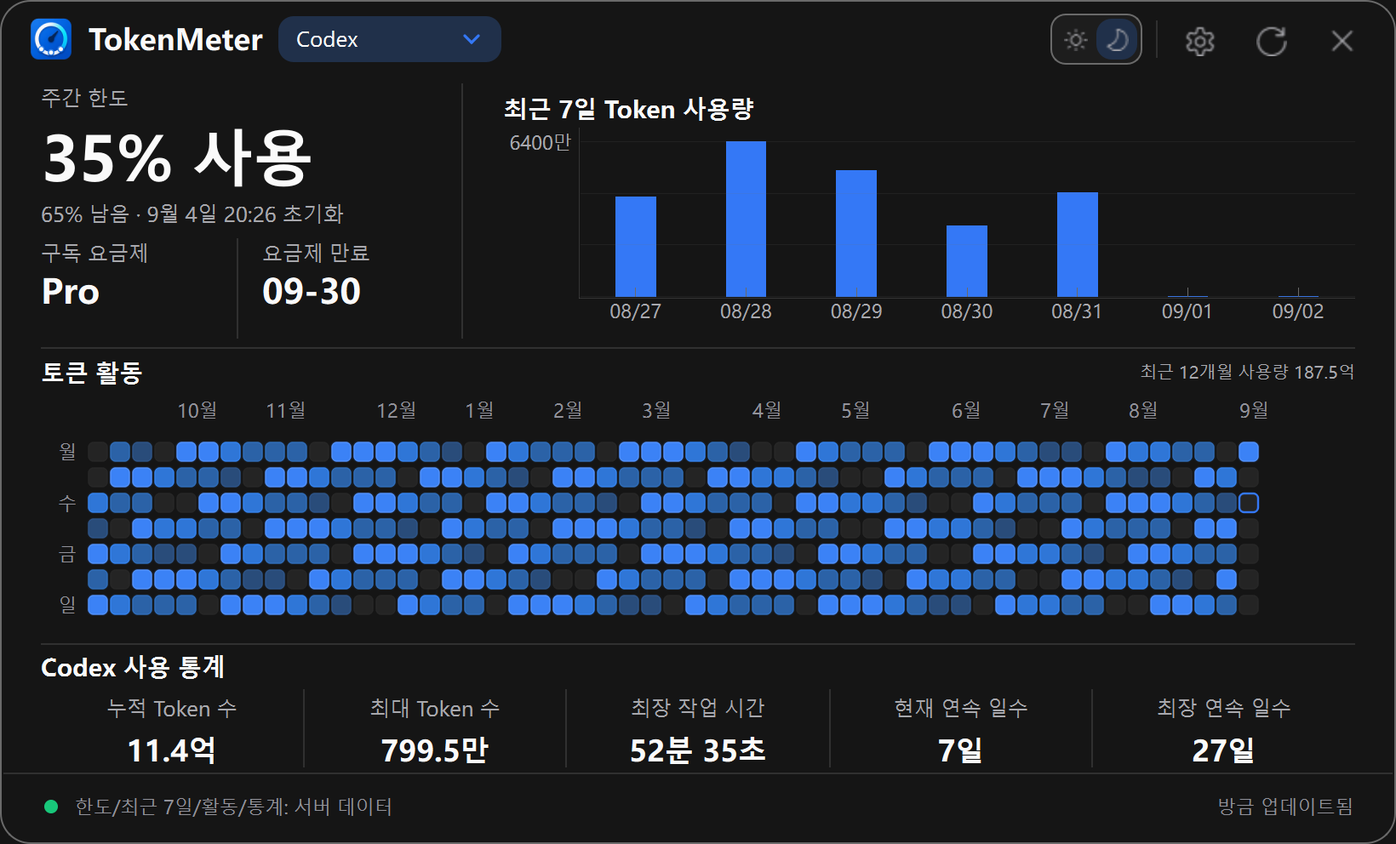
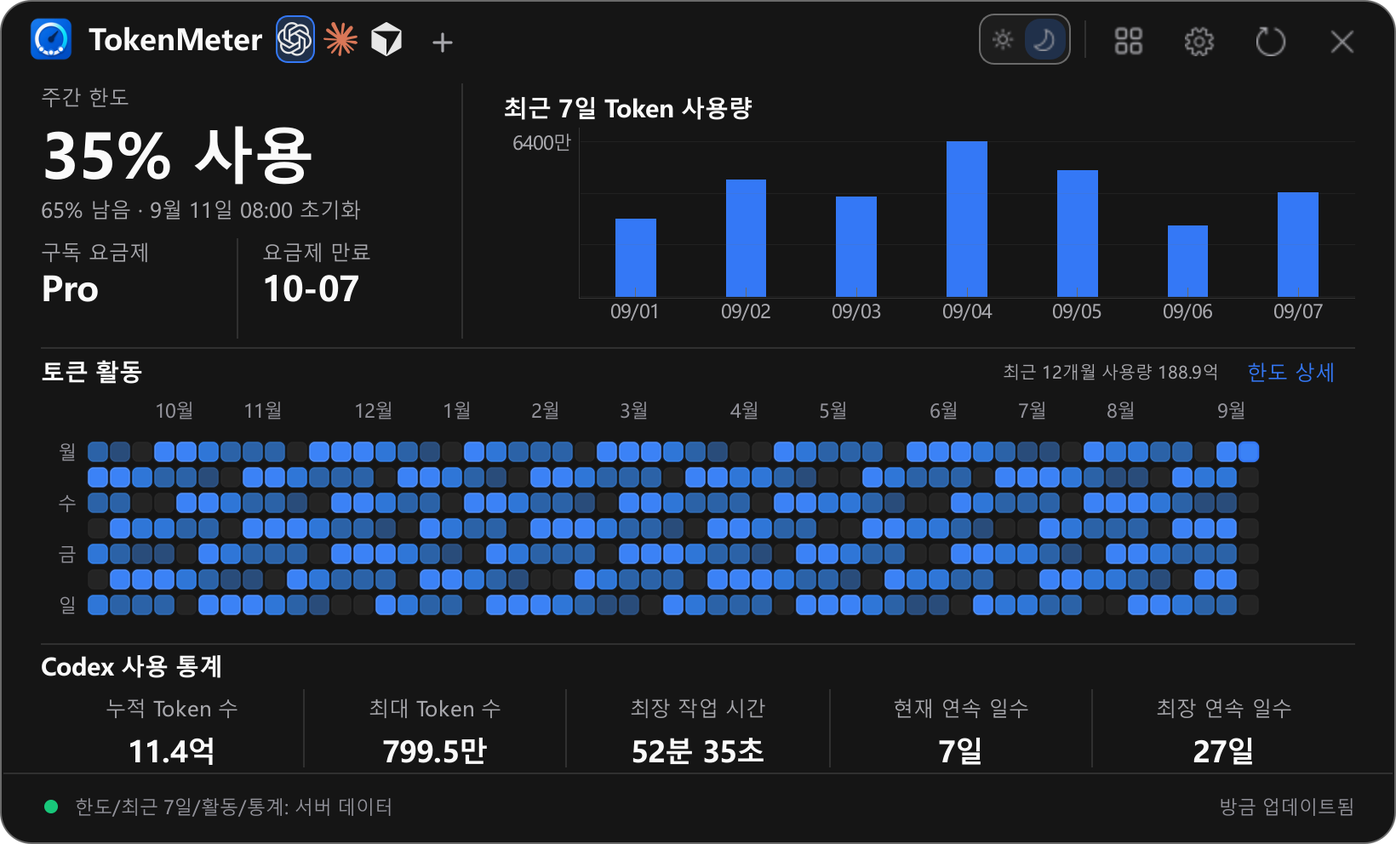
feat: 发布 v1.15.0 多平台监控与桌宠 v0.1.4，更新官网和文档

diff --git a/site/index.html b/site/index.html
@@ -7,7 +7,7 @@
     <meta name="color-scheme" content="light dark">
     <meta name="robots" content="index,follow,max-image-preview:large">
     <title>TokenMeter — AI Usage Monitor for Windows</title>
-    <meta name="description" content="TokenMeter 是适用于 Windows 10/11 的 AI 用量监控工具，可统一查看订阅额度、Token 消耗、费用、余额与历史趋势。">
+    <meta name="description" content="TokenMeter 为 Windows 提供 15 个 AI 平台入口、多账户额度总览、Codex / Claude 本机统计、Excel 导出与额度提醒。各平台数据范围不同。">
     <link rel="canonical" href="https://zensoku142.github.io/TokenMeter/">
     <link rel="icon" type="image/png" href="./assets/app-icon.png">
     <link rel="apple-touch-icon" href="./assets/app-icon.png">
@@ -25,18 +25,18 @@
     <meta property="og:locale" content="zh_CN">
     <meta property="og:site_name" content="TokenMeter">
     <meta property="og:title" content="TokenMeter — AI Usage Monitor for Windows">
-    <meta property="og:description" content="在 Windows 桌面统一查看 AI 订阅额度、Token 消耗、费用与余额。">
+    <meta property="og:description" content="TokenMeter 为 Windows 提供 15 个 AI 平台入口、多账户额度总览、Codex / Claude 本机统计、Excel 导出与额度提醒。各平台数据范围不同。">
     <meta property="og:url" content="https://zensoku142.github.io/TokenMeter/">
     <meta property="og:image" content="https://zensoku142.github.io/TokenMeter/assets/social-preview.webp">
     <meta property="og:image:width" content="1920"><meta property="og:image:height" content="1624">
     <meta property="og:image:alt" content="TokenMeter 的额度面板、用量分析、悬浮球与可选桌宠">
     <meta name="twitter:card" content="summary_large_image">
     <meta name="twitter:title" content="TokenMeter — AI Usage Monitor for Windows">
-    <meta name="twitter:description" content="查看 Codex、Cursor 额度及多个 AI API 的 Token、费用和余额。">
+    <meta name="twitter:description" content="TokenMeter 为 Windows 提供 15 个 AI 平台入口、多账户额度总览、Codex / Claude 本机统计、Excel 导出与额度提醒。各平台数据范围不同。">
     <meta name="twitter:image" content="https://zensoku142.github.io/TokenMeter/assets/social-preview.webp">
     <link rel="stylesheet" href="./styles.css">
     <script src="./script.js" defer></script>
-    <script type="application/ld+json">{"@context":"https://schema.org","@type":"SoftwareApplication","@id":"https://zensoku142.github.io/TokenMeter/#software","name":"TokenMeter","url":"https://zensoku142.github.io/TokenMeter/","description":"适用于 Windows 10/11 的 AI Token 用量、费用、余额与订阅额度监控工具。","applicationCategory":"UtilitiesApplication","operatingSystem":["Windows 10","Windows 11"],"softwareVersion":"1.14.2","downloadUrl":"https://github.com/zensoku142/TokenMeter/releases/latest","sameAs":"https://github.com/zensoku142/TokenMeter","license":"https://github.com/zensoku142/TokenMeter/blob/master/LICENSE","isAccessibleForFree":true,"image":"https://zensoku142.github.io/TokenMeter/assets/social-preview.webp","screenshot":["https://zensoku142.github.io/TokenMeter/assets/panel-light.png","https://zensoku142.github.io/TokenMeter/assets/panel-deepseek.png"],"inLanguage":["zh-CN","zh-TW","en","ja","ko"]}</script>
+    <script type="application/ld+json">{"@context":"https://schema.org","@type":"SoftwareApplication","@id":"https://zensoku142.github.io/TokenMeter/#software","name":"TokenMeter","url":"https://zensoku142.github.io/TokenMeter/","description":"适用于 Windows 10/11 的 AI Token 用量、费用、余额与订阅额度监控工具。","applicationCategory":"UtilitiesApplication","operatingSystem":["Windows 10","Windows 11"],"softwareVersion":"1.15.0","downloadUrl":"https://github.com/zensoku142/TokenMeter/releases/latest","sameAs":"https://github.com/zensoku142/TokenMeter","license":"https://github.com/zensoku142/TokenMeter/blob/master/LICENSE","isAccessibleForFree":true,"image":"https://zensoku142.github.io/TokenMeter/assets/social-preview.webp","screenshot":["https://zensoku142.github.io/TokenMeter/assets/panel-light.png","https://zensoku142.github.io/TokenMeter/assets/panel-deepseek.png"],"inLanguage":["zh-CN","zh-TW","en","ja","ko"]}</script>
   </head>
   <body>
     <a class="skip-link" href="#main-content" data-i18n="skip_link">跳到主要内容</a>
@@ -67,7 +67,7 @@
               <li><svg viewBox="0 0 24 24" aria-hidden="true"><path d="m5 12 4 4L19 6"/></svg><span data-i18n="open_label">自有代码 MIT</span></li>
               <li><svg viewBox="0 0 24 24" aria-hidden="true"><path d="m5 12 4 4L19 6"/></svg><span data-i18n="benefit_5_title">数据留在本机</span></li>
             </ul>
-            <div class="provider-row hero-enter" style="--enter-order:5"><span class="provider-label" data-i18n="providers_intro">支持平台</span><ul class="hero-providers" aria-label="支持的平台" data-i18n-aria="providers_aria"><li><span class="provider-mark" aria-hidden="true">C</span>Codex</li><li><span class="provider-mark" aria-hidden="true">C</span>Cursor</li><li><span class="provider-mark" aria-hidden="true">D</span>DeepSeek</li><li><span class="provider-mark" aria-hidden="true">M</span>MiMo</li><li><span class="provider-mark" aria-hidden="true">N</span>NayutoAI</li></ul></div>
+            <div class="provider-row hero-enter" style="--enter-order:5"><span class="provider-label" data-i18n="providers_intro">15 个平台入口 · 按各平台能力展示</span><ul class="hero-providers" aria-label="支持的平台" data-i18n-aria="providers_aria"><li><span class="provider-mark" aria-hidden="true">C</span>Codex</li><li><span class="provider-mark" aria-hidden="true">C</span>Cursor</li><li><span class="provider-mark" aria-hidden="true">D</span>DeepSeek</li><li><span class="provider-mark" aria-hidden="true">M</span>MiMo</li><li><span class="provider-mark" aria-hidden="true">N</span>NayutoAI</li></ul></div>
           </div>
           <div class="hero-visual hero-enter" style="--enter-order:5" aria-label="TokenMeter 产品界面组合展示">
             <div class="visual-glow" aria-hidden="true"></div>
@@ -90,11 +90,11 @@
             </div>
             <div class="product-panels">
               <article class="product-panel is-active" role="tabpanel" id="panel-quota" aria-labelledby="tab-quota" data-demo-panel="quota">
-                <div class="product-panel-copy"><p class="section-label">Codex / Cursor</p><h3 data-i18n="benefit_1_title">订阅额度一眼可见</h3><p data-i18n="benefit_1_desc">查看已用和剩余额度、重置时间，以及近期 Token 与活动趋势。</p><ul class="feature-points"><li><span></span><span data-i18n="benefit_1_desc">已用、剩余比例与重置时间</span></li><li><span></span><span data-i18n="benefit_4_desc">近七天 Token 与历史统计</span></li><li><span></span><span data-i18n="analytics_point_3">离线时恢复最后成功数据</span></li></ul><div class="inline-metrics" aria-label="演示数据" data-i18n-aria="demo_metrics_aria"><span><small data-i18n="demo_quota_label">剩余额度</small><strong><span data-counter="65">0</span>%</strong></span><span><small data-i18n="fact_version">主程序版本</small><strong>v1.14.2</strong></span></div></div>
+                <div class="product-panel-copy"><p class="section-label">Codex / Claude / Cursor / Copilot</p><h3 data-i18n="benefit_1_title">订阅额度一眼可见</h3><p data-i18n="benefit_1_desc">查看 Codex、Claude、Cursor、Copilot 等平台的额度窗口与重置时间。</p><ul class="feature-points"><li><span></span><span data-i18n="benefit_1_desc">查看 Codex、Claude、Cursor、Copilot 等平台的额度窗口与重置时间。</span></li><li><span></span><span data-i18n="benefit_4_desc">额度消耗预测、低额度与恢复提醒，支持通知静默时段。</span></li><li><span></span><span data-i18n="analytics_point_3">离线时恢复最后成功数据</span></li></ul><div class="inline-metrics" aria-label="演示数据" data-i18n-aria="demo_metrics_aria"><span><small data-i18n="demo_quota_label">剩余额度</small><strong><span data-counter="65">0</span>%</strong></span><span><small data-i18n="fact_version">主程序版本</small><strong>v1.15.0</strong></span></div></div>
                 <figure class="product-panel-visual surface-light"><a href="./assets/panel-light.png" aria-label="查看 Codex 额度面板原图" data-i18n-aria="quota_image_link_aria"><img src="./assets/panel-light.png" alt="TokenMeter 浅色主题下的 Codex 额度、近七天 Token 和年度活动面板" data-i18n-alt="quota_image_alt" data-i18n-src="panel_light_src" width="1640" height="992" loading="lazy" decoding="async"></a><div class="visual-caption"><span>Codex</span><span data-i18n="screenshot_caption">真实界面 · 演示数据</span></div></figure>
               </article>
               <article class="product-panel" role="tabpanel" id="panel-analytics" aria-labelledby="tab-analytics" data-demo-panel="analytics" hidden>
-                <div class="product-panel-copy"><p class="section-label">DeepSeek / MiMo / NayutoAI</p><h3 data-i18n="analytics_title">看见每个时段的消耗。</h3><p data-i18n="analytics_desc">查看 Token 输入与输出、今日分时趋势、使用费用、账户余额和历史变化。</p><ul class="feature-points"><li><span></span><span data-i18n="analytics_point_1">Token 构成与分时变化</span></li><li><span></span><span data-i18n="analytics_point_2">费用、余额与历史统计</span></li><li><span></span><span data-i18n="analytics_point_3">断网时恢复最后成功数据</span></li></ul><div class="inline-metrics" aria-label="演示数据" data-i18n-aria="demo_metrics_aria"><span><small data-i18n="demo_cost_label">今日费用</small><strong>¥<span data-counter="18.42" data-decimals="2">0</span></strong></span><span><small data-i18n="demo_balance_label">账户余额</small><strong>¥<span data-counter="286.70" data-decimals="2">0</span></strong></span></div></div>
+                <div class="product-panel-copy"><p class="section-label">API · Codex / Claude</p><h3 data-i18n="analytics_title">看见每个时段的消耗。</h3><p data-i18n="analytics_desc">查看 API 费用与余额，分析 Codex / Claude 本机日志，按日期、项目和模型筛选并导出 Excel。本机统计不代表订阅额度或实际账单。</p><ul class="feature-points"><li><span></span><span data-i18n="analytics_point_1">交互图表、每日模型对比与项目筛选</span></li><li><span></span><span data-i18n="analytics_point_2">后台导出 Excel 汇总、明细与口径说明</span></li><li><span></span><span data-i18n="analytics_point_3">断网时恢复最后成功数据</span></li></ul><div class="inline-metrics" aria-label="演示数据" data-i18n-aria="demo_metrics_aria"><span><small data-i18n="demo_cost_label">今日费用</small><strong>¥<span data-counter="18.42" data-decimals="2">0</span></strong></span><span><small data-i18n="demo_balance_label">账户余额</small><strong>¥<span data-counter="286.70" data-decimals="2">0</span></strong></span></div></div>
                 <figure class="product-panel-visual surface-dark"><a href="./assets/panel-deepseek.png" aria-label="查看 DeepSeek 用量面板原图" data-i18n-aria="analytics_image_link_aria"><img src="./assets/panel-deepseek.png" alt="TokenMeter 的 DeepSeek Token、费用、余额与今日分时面板" data-i18n-alt="analytics_image_alt" data-i18n-src="panel_deepseek_src" width="1640" height="1100" loading="lazy" decoding="async"></a><div class="visual-caption"><span>DeepSeek</span><span data-i18n="screenshot_caption">真实界面 · 演示数据</span></div></figure>
               </article>
               <article class="product-panel" role="tabpanel" id="panel-floating" aria-labelledby="tab-floating" data-demo-panel="floating" hidden>
@@ -114,9 +114,9 @@
         <div class="container">
           <div class="section-heading centered-heading"><p class="section-label" data-i18n="features_label">为什么使用 TokenMeter</p><h2 id="advantages-title" data-i18n="features_title">少开几个后台，多留一点专注。</h2><p data-i18n="features_intro">不用在多个 AI 平台之间反复切换。需要的数据以一致的方式留在桌面上。</p></div>
           <div class="advantage-grid">
-            <article class="advantage-card advantage-primary" data-reveal><div class="advantage-copy"><span class="number-label">01</span><h3 data-i18n="advantage_multi_title">多平台统一监控</h3><p data-i18n="advantage_multi_desc">一个应用查看多个 AI 平台，额度与用量采用一致的阅读方式。</p><ul class="compact-tags"><li>Codex</li><li>Cursor</li><li>DeepSeek</li><li>MiMo</li><li>NayutoAI</li></ul></div><figure class="advantage-image"><img src="./assets/panel-deepseek.png" alt="TokenMeter 多平台用量面板" data-i18n-alt="analytics_image_alt" data-i18n-src="panel_deepseek_src" width="1640" height="1100" loading="lazy" decoding="async"></figure></article>
+            <article class="advantage-card advantage-primary" data-reveal><div class="advantage-copy"><span class="number-label">01</span><h3 data-i18n="advantage_multi_title">多平台统一监控</h3><p data-i18n="advantage_multi_desc">15 个平台入口，多平台总览与独立账户档案；已配置平台可组成置顶双平台看板。</p><ul class="compact-tags"><li>Codex</li><li>Claude Code</li><li>Cursor</li><li>GitHub Copilot</li><li>Gemini CLI</li><li>Antigravity CLI</li><li>GLM / Z.ai</li><li>Kimi Coding</li><li>MiniMax Token Plan</li><li>ElevenLabs</li><li>DeepSeek</li><li>MiMo</li><li>NayutoAI</li><li>OpenRouter</li><li>Moonshot / Kimi API</li></ul></div><figure class="advantage-image"><img src="./assets/panel-deepseek.png" alt="TokenMeter 多平台用量面板" data-i18n-alt="analytics_image_alt" data-i18n-src="panel_deepseek_src" width="1640" height="1100" loading="lazy" decoding="async"></figure></article>
             <article class="advantage-card security-card" id="privacy" data-reveal><div class="security-visual" aria-hidden="true"><svg viewBox="0 0 72 72"><path d="M36 7 60 17v18c0 15-10 25-24 31C22 60 12 50 12 35V17L36 7Z"/><path d="m25 36 7 7 15-16"/></svg><div><span data-i18n="privacy_2_title">Windows 凭据管理器</span><strong>API Key · Token · Cookie</strong></div></div><div class="advantage-copy"><span class="number-label">02</span><h3 data-i18n="advantage_security_title">凭据本地安全保存</h3><p data-i18n="advantage_security_desc">由 TokenMeter 管理的凭据存入 Windows 凭据管理器，不直接写入普通配置文件或应用日志。</p><span class="status-pill"><i></i><span data-i18n="privacy_1_title">历史数据本地保存</span></span></div></article>
-            <article class="advantage-card tray-card" data-reveal><div class="tray-visual"><img src="./assets/ball-light.png" alt="TokenMeter 悬浮球" width="248" height="248" loading="lazy" decoding="async"><div aria-hidden="true"><span></span><span></span><span class="tray-active"></span><span></span></div></div><div class="advantage-copy"><span class="number-label">03</span><h3 data-i18n="advantage_tray_title">悬浮球与系统托盘</h3><p data-i18n="advantage_tray_desc">不打开完整面板，也能快速查看额度或余额；贴边后尽量不打扰当前工作。</p></div></article>
+            <article class="advantage-card tray-card" data-reveal><div class="tray-visual"><img src="./assets/ball-light.png" alt="TokenMeter 悬浮球" width="248" height="248" loading="lazy" decoding="async"><div aria-hidden="true"><span></span><span></span><span class="tray-active"></span><span></span></div></div><div class="advantage-copy"><span class="number-label">03</span><h3 data-i18n="advantage_tray_title">悬浮球与系统托盘</h3><p data-i18n="advantage_tray_desc">悬浮球、系统托盘与双平台看板；自动刷新支持失败退避，低额度与恢复提醒可按需开启。</p></div></article>
           </div>
         </div>
       </section>
@@ -126,7 +126,7 @@
       </section>
 
       <section class="section download-section" id="download" aria-labelledby="download-title" data-reveal data-section="download">
-        <div class="container download-shell"><div class="download-copy"><img src="./assets/app-icon.png" alt="" width="68" height="68"><p class="section-label" data-i18n="install_label">开始使用</p><h2 id="download-title" data-i18n="download_title_compact">把 AI 用量放到桌面。</h2><p data-i18n="download_desc">下载 Windows x64 安装包，选择平台，然后点击悬浮球查看额度、Token、费用与余额。</p><div class="hero-actions"><a class="button button-primary button-light" href="https://github.com/zensoku142/TokenMeter/releases/latest"><svg viewBox="0 0 24 24" width="19" height="19" aria-hidden="true"><path d="M12 3v12m0 0 4-4m-4 4-4-4M5 20h14"/></svg><span data-i18n="action_download">下载 Windows 版</span></a><a class="button button-ghost" href="https://github.com/zensoku142/TokenMeter/releases"><span>GitHub Releases</span><svg viewBox="0 0 24 24" width="18" height="18" aria-hidden="true"><path d="M5 12h14m-5-5 5 5-5 5"/></svg></a></div></div><div class="download-meta" aria-label="下载信息"><div><span data-i18n="fact_version">当前版本</span><strong>v1.14.2</strong></div><div><span data-i18n="fact_windows">系统要求</span><strong>Windows 10 / 11 x64</strong></div><div><span data-i18n="lightweight_license">开源许可</span><strong>MIT License</strong></div><div><span data-i18n="fact_sha">安装包校验</span><strong>SHA256SUMS.txt</strong></div></div></div>
+        <div class="container download-shell"><div class="download-copy"><img src="./assets/app-icon.png" alt="" width="68" height="68"><p class="section-label" data-i18n="install_label">开始使用</p><h2 id="download-title" data-i18n="download_title_compact">把 AI 用量放到桌面。</h2><p data-i18n="download_desc">下载 Windows x64 安装包，选择平台，然后点击悬浮球查看额度、Token、费用与余额。</p><div class="hero-actions"><a class="button button-primary button-light" href="https://github.com/zensoku142/TokenMeter/releases/latest"><svg viewBox="0 0 24 24" width="19" height="19" aria-hidden="true"><path d="M12 3v12m0 0 4-4m-4 4-4-4M5 20h14"/></svg><span data-i18n="action_download">下载 Windows 版</span></a><a class="button button-ghost" href="https://github.com/zensoku142/TokenMeter/releases"><span>GitHub Releases</span><svg viewBox="0 0 24 24" width="18" height="18" aria-hidden="true"><path d="M5 12h14m-5-5 5 5-5 5"/></svg></a></div></div><div class="download-meta" aria-label="下载信息"><div><span data-i18n="fact_version">主程序版本</span><strong>v1.15.0</strong></div><div><span data-i18n="fact_windows">系统要求</span><strong>Windows 10 / 11 x64</strong></div><div><span data-i18n="lightweight_license">开源许可</span><strong>MIT License</strong></div><div><span data-i18n="fact_sha">安装包校验</span><strong>SHA256SUMS.txt</strong></div></div></div>
       </section>
     </main>
 

diff --git a/scripts/render_site_localized_panels.py b/scripts/render_site_localized_panels.py
@@ -29,11 +29,12 @@ from ui.qt_theme import DARK_THEME, LIGHT_THEME, configure_theme
 
 
 OUTPUT_DIR = ROOT / "site" / "assets"
-LOCALES = ("zh-tw", "en", "ja", "ko")
+LOCALES = ("zh-cn", "zh-tw", "en", "ja", "ko")
 
 
 def codex_demo() -> TokenData:
-    today = date(2026, 8, 31)
+    # 图表以系统当天为窗口终点；演示日期随采集日平移，避免旧示例落在可见区间外。
+    today = date.today()
     daily_usage = []
     for offset in range(364, -1, -1):
         day = today - timedelta(days=offset)
@@ -51,8 +52,8 @@ def codex_demo() -> TokenData:
         }
         for index, tokens in enumerate(weekly_tokens)
     ]
-    reset = datetime(2026, 9, 4, 12, 26, tzinfo=timezone.utc)
-    active_until = datetime(2026, 9, 30, 0, 0, tzinfo=timezone.utc)
+    reset = datetime.combine(today + timedelta(days=4), datetime.min.time(), tzinfo=timezone.utc)
+    active_until = datetime.combine(today + timedelta(days=30), datetime.min.time(), tzinfo=timezone.utc)
     windows = [QuotaWindow("codex-weekly", "每周额度", 35, resets_at=reset)]
     statistics = [
         QuotaMetric("累计 Token 数", "11.4亿", raw_value=1_140_000_000, value_kind="tokens"),
@@ -92,7 +93,7 @@ def codex_demo() -> TokenData:
 
 
 def deepseek_demo() -> TokenData:
-    today = date(2026, 8, 31)
+    today = date.today()
     costs = [Decimal("2.18"), Decimal("2.83"), Decimal("2.51"), Decimal("3.46"), Decimal("3.02"), Decimal("1.94"), Decimal("3.94")]
     daily_usage = [
         {
@@ -177,7 +178,8 @@ def render_panel(app: QApplication, locale: str, theme: str, kind: str) -> Path:
         app.processEvents()
 
     stem = "panel-light" if kind == "codex" and theme == "light" else "panel-dark" if kind == "codex" else "panel-deepseek"
-    output = OUTPUT_DIR / f"{stem}-{locale}.png"
+    suffix = "" if locale == "zh-cn" else f"-{locale}"
+    output = OUTPUT_DIR / f"{stem}{suffix}.png"
     pixmap = panel.grab()
     if not pixmap.save(str(output), "PNG"):
         raise RuntimeError(f"Unable to save {output}")

diff --git a/core/identity.py b/core/identity.py
@@ -4,7 +4,7 @@ from __future__ import annotations
 
 APP_DISPLAY_NAME = "TokenMeter"
 APP_STORAGE_NAME = "TokenSpider"
-APP_VERSION = "1.14.2"
+APP_VERSION = "1.15.0"
 
 # Keep the legacy storage and mutex identities so upgrades retain user data,
 # credentials, and single-instance coordination across every public rename.

diff --git a/release-notes/v1.15.0.md b/release-notes/v1.15.0.md
@@ -1,0 +1,45 @@
+更新类型：功能新增、Bug 修复、功能优化、文档更新
+
+本次发布汇总 `v1.14.2` 以来的完整主程序开发批次：从五平台用量面板扩展为 15 个独立平台入口，增加多平台总览、多账户、本机统计、Excel 导出、额度预测与提醒、双平台置顶看板。现有默认连接、CLI 登录、用户数据目录及安装升级方式保持兼容。
+
+### 新增
+
+- 新增 Claude Code、GitHub Copilot、GLM / Z.ai、Kimi Coding、MiniMax Token Plan、Gemini CLI、ElevenLabs、Antigravity CLI、OpenRouter 和 Moonshot / Kimi API 入口。Claude 支持只读本机 OAuth 或显式状态栏快照；Antigravity 使用用户配置的官方状态栏快照，不调用模型生成接口。
+- “额度明细”展示平台实际提供的全部额度窗口、账户指标、重置时间与数据来源。订阅额度、API 余额、密钥预算分开呈现，不合并币种或推算未提供的账单数据。
+- 多平台总览显示独立额度、余额、最后成功时间和连接恢复入口；页面可见时按分钟逐个更新，复用采集退避并跳过刚刷新过的平台。
+- “设置 → 多账户”保存同一平台的独立连接，支持添加、编辑、删除和监控。凭据进入 Windows 凭据管理器，历史缓存按档案和实际账号隔离，迟到响应不能覆盖已修改或删除的档案。
+- 本机统计自动读取 Codex（含归档）和 Claude 日志，先显示缓存再增量更新。支持日期与项目筛选、Top 排行、每日模型比较、图表/表格、图例筛选、缩放、横移和分项提示；后台导出 Excel 汇总、明细和口径说明。
+- 可选低额度提醒、恢复提醒、额度消耗预测和通知静默时段；跨重启保留提醒状态，静默时段支持跨午夜。预测需同周期至少 10 分钟有效样本，恢复提醒需先启用低额度提醒，并以实际刷新确认恢复。
+- 独立置顶双平台看板复用总览和刷新队列，记住两个已配置平台的选择，优先展示最紧张的额度窗口，并提供详情入口。
+
+### 修复
+
+- 修复部分平台异常数值、畸形用量数组、账号切换后的缓存恢复和币种显示；加固平台错误文案的隐私处理。
+- 修复历史费用统计口径与缓存边界，避免重复刷新和旧账号数据干扰当前展示。
+- 修复悬浮球收到相同读数后水面动画停止、设置透明度拖动卡顿及实时预览问题；修复数字框箭头和百分比文字截断。
+- 加固平台删除、设置弹窗、刷新队列关闭和异步生命周期处理；移除平台只清除本应用连接，保留 CLI 登录及历史记录。
+
+### 优化
+
+- 使用随包分发的离线品牌 SVG，统一顶部导航、纯图标快捷入口、平台搜索与收藏；支持点击星形或 `Ctrl+D` 收藏。
+- 统一 Token 显示单位、面板圆角、设置页签顺序和交互图表导航；图例保持单行并支持横向浏览，每日图表按可见模型隐藏空日期。
+- 总览更新复用卡片和样式，减少重复整页刷新；自动采集在限流或网络失败后退避，手动刷新可主动重试。
+- 桌宠桥接同步明暗主题、额度与提示配色；扩展下载支持独立宿主更新，已有动画资源无需重复下载。桌宠自身的主题改动在独立 `pet-v0.1.4` 发布。
+- 新增模块纳入 Ruff、运行模块基本错误检查、Pyright 和打包配置；测试隔离真实 Windows 凭据、CLI 登录发现和本地历史数据。
+- 更新五种语言 README、GitHub Pages 功能与版本信息、真实组件截图和平台配置指南；官网支持五种语言、明暗主题及对应语言截图。更新记录统一保存在 Release 文案中。
+
+### 验证
+
+- 发布前全量回归：1620 项测试、172 项子测试通过；无界面模式跳过的 4 项 Windows 原生焦点用例已单独运行通过。唯一 ZIP 重名警告来自恶意扩展包测试，符合预期。
+- Ruff、全部运行模块基本错误检查、Pyright、`git diff --check` 和 GitHub Pages 资源/五语言校验通过；Python 与桌宠 .NET 依赖审计通过，桌宠 Release 构建为 0 警告、0 错误。
+- 五语言产品面板重新渲染并检查；浏览器验证中文桌面文案、英文语言切换与 390px 窄屏统计文案，未出现页面横向溢出。
+- 供应商测试使用模拟响应，界面截图使用演示数据；没有覆盖所有真实账号、套餐和网络环境，不将模拟测试等同于实账号验收。
+- GitHub Actions 将执行全量回归、依赖审计、安装包构建、首次安装、覆盖安装、数据保留及真实 Qt 启动自检。
+
+### 安装、兼容与校验
+
+- 下载 `TokenMeter-Setup-v1.15.0-x64.exe` 安装或覆盖升级，同页 `SHA256SUMS.txt` 校验完整性。SHA256 不等同于独立发布签名。
+- 本机日志统计的账户归属未知，不代表订阅剩余额度或实际账单。可显式选择已可访问的 WSL 目录，不会启动 WSL。
+- 各平台权限和数据范围不同：OpenRouter 展示密钥预算，Kimi API 与 Kimi Coding 使用独立凭据；Gemini 与 Copilot 的实验性接口及账号限制见 README 所链接的指南。缺失字段显示不可用。
+- 主安装包不含桌宠；桌宠独立升级至 `pet-v0.1.4` 可使用完整主题同步，旧扩展仍可连接。桌宠此前已发布的 `pet-v0.1.1` 至 `pet-v0.1.3` 包含生活提醒、贴边状态及启动修复，详见各自 Release。
+- 完整提交与文件差异：[v1.14.2 → v1.15.0](https://github.com/zensoku142/TokenMeter/compare/v1.14.2...v1.15.0)。

diff --git a/README.en.md b/README.en.md
@@ -23,7 +23,7 @@
 
 <p align="center">
   <strong>AI Token Usage, Cost & Balance Monitor for Windows</strong><br>
-  <sub>Track Codex, Cursor, DeepSeek, Xiaomi MiMo, and NayutoAI from a lightweight desktop floating widget.</sub>
+  <sub>Codex · Claude · Cursor · Copilot · Gemini · DeepSeek · MiMo · OpenRouter · Kimi · MiniMax · ElevenLabs · GLM · Antigravity · NayutoAI</sub>
 </p>
 
 <p align="center">
@@ -32,16 +32,20 @@
 
 Actual component screenshots in Chinese, using demo data. [Original images and sources](docs/images/readme/README.md).
 
-TokenMeter is a lightweight AI token usage and subscription quota monitor for Windows 10/11. Track used and remaining Codex and Cursor quotas and reset times, plus DeepSeek, Xiaomi MiMo, and NayutoAI token usage, API costs, account balances, and historical trends.
+TokenMeter is a lightweight AI usage monitor for Windows 10/11 with 15 separate provider connections. It displays subscription quotas, reset times, API costs, balances and history according to each provider's capabilities.
+
+Current version：**v1.15.0** · VPet **v0.1.4** · [GitHub Pages](https://zensoku142.github.io/TokenMeter/)
 
 ## Features
 
-- **Subscription quotas**: used and remaining percentages and reset times for Codex / Cursor; Codex also shows seven-day tokens, annual activity, and usage statistics.
-- **API usage**: costs and balances, today's intraday chart, token breakdowns, and historical trends for DeepSeek / MiMo / NayutoAI.
-- **Floating display**: a quota water-level widget or balance display, with dragging, mouse-wheel resizing, edge hiding, and a system tray icon.
-- **Appearance and languages**: light, dark, and system themes, custom colors and opacity; Simplified Chinese, Traditional Chinese, English, Japanese, and Korean.
-- **Collection and caching**: refresh only the current provider by default, with optional background providers; offline caching, DeepSeek peak-pricing hints, and MiMo Cookie collection and renewal.
-- **Desktop integration**: launch at sign-in, automatic updates, data-directory migration, and an optional VPet extension.
+- **Quotas and balances**: Codex, Claude Code, Cursor, GitHub Copilot, GLM / Z.ai, Kimi Coding, MiniMax Token Plan, Gemini CLI and ElevenLabs quotas; DeepSeek, MiMo and NayutoAI usage; OpenRouter key budgets and costs; Moonshot / Kimi API balances. Antigravity CLI reads an explicitly configured statusline snapshot. Missing fields remain unavailable; currencies and budget scopes stay separate.
+- **Overview and accounts**: automatically refresh configured providers while the overview is visible. Settings → Multi-account stores independent connections, credentials and monitoring state without replacing default connections or CLI logins. Two configured providers can also stay visible in a compact, always-on-top dashboard.
+- **Local analytics and Excel**: read local Codex (including archived sessions) and Claude logs, show cached results, then update in the background. Filter by date, project and model, compare daily usage, zoom charts and export `.xlsx` summaries, details and methodology. Local logs have unknown account attribution and do not represent subscription quotas or actual bills; accessible WSL directories can be selected without starting WSL.
+- **Provider management**: offline brand icons, search, favorites and removal of app-managed connections. Removing a provider preserves CLI logins and history.
+- **Refresh and alerts**: retry backoff, offline cache, optional low-quota and recovery alerts, forecasts and quiet hours. Forecasts require at least 10 minutes of valid samples from the same quota cycle; recovery alerts require low-quota alerts and a confirmed refresh. Alert state survives restarts.
+- **Desktop display**: draggable floating widget, wheel resizing, edge hiding, tray, light/dark/system themes, colors and opacity, five languages, automatic updates and optional VPet. Pet quota windows follow the app theme with pet v0.1.4 and app v1.15.0.
+
+[Provider setup and limitations (Chinese)](docs/provider-support-research-2026-09-05.md) · [Kimi / MiniMax / ElevenLabs](docs/codexbar-provider-coverage-2026-09-05.md) · [Gemini / Claude](docs/gemini-quota-2026-09-05.md) · [Antigravity statusline](docs/antigravity-statusline-2026-09-07.md)
 
 ## Installation and setup
 
@@ -109,7 +113,7 @@ Qt tests need an available Windows desktop session; installer builds require Inn
 
 ## Versions
 
-Main app: `1.14.2`; optional pet extension: `0.1.3`. See [GitHub Releases](https://github.com/zensoku142/TokenMeter/releases) for changes and checksums.
+Main app: `1.15.0`; optional pet extension: `0.1.4`. See [GitHub Releases](https://github.com/zensoku142/TokenMeter/releases) for changes and checksums.
 
 ## License and acknowledgments
 

diff --git a/README.zh-TW.md b/README.zh-TW.md
@@ -23,7 +23,7 @@
 
 <p align="center">
   <strong>Windows AI Token 用量、費用與餘額監控工具</strong><br>
-  <sub>適用於 Codex、Cursor、DeepSeek、Xiaomi MiMo 與 NayutoAI 的用量監控工具。</sub>
+  <sub>Codex · Claude · Cursor · Copilot · Gemini · DeepSeek · MiMo · OpenRouter · Kimi · MiniMax · ElevenLabs · GLM · Antigravity · NayutoAI</sub>
 </p>
 
 <p align="center">
@@ -32,16 +32,20 @@
 
 真實元件截圖，介面為簡體中文，使用示範資料。[查看原圖與來源](docs/images/readme/README.md)。
 
-TokenMeter 是一款適用於 Windows 10/11 的輕量級 AI Token 用量與訂閱額度監控工具：可查看 Codex、Cursor 的已用與剩餘額度、重設時間，以及 DeepSeek、Xiaomi MiMo、NayutoAI 的 Token 用量、API 費用、帳戶餘額和歷史趨勢。
+TokenMeter 是適用於 Windows 10/11 的輕量級 AI 用量監控工具，提供 15 個獨立平台入口，依平台能力顯示訂閱額度、重設時間、API 費用、餘額與歷史趨勢。
+
+目前版本：**v1.15.0** · VPet **v0.1.4** · [GitHub Pages](https://zensoku142.github.io/TokenMeter/)
 
 ## 功能
 
-- **訂閱額度**：Codex / Cursor 的已用與剩餘比例、重設時間；Codex 另有近 7 天 Token、年度活動和使用統計。
-- **API 用量**：DeepSeek / MiMo / NayutoAI 的費用與餘額、今日分時圖、Token 組成和歷史趨勢。
-- **懸浮顯示**：額度水球或餘額顯示，支援拖曳、滾輪縮放、貼邊隱藏和系統匣常駐。
-- **外觀與語言**：淺色、深色及系統主題，可調整主題色和透明度；支援簡中、繁中、英語、日語、韓語。
-- **擷取與快取**：預設只更新目前平台，可選背景同步；支援離線快取、DeepSeek 峰谷提示及 MiMo Cookie 取得與續期。
-- **桌面整合**：開機自動啟動、自動更新、資料目錄遷移，以及選用的 VPet 桌寵擴充套件。
+- **額度與餘額**：支援 Codex、Claude Code、Cursor、GitHub Copilot、GLM / Z.ai、Kimi Coding、MiniMax Token Plan、Gemini CLI 和 ElevenLabs 額度；DeepSeek / MiMo / NayutoAI 用量；OpenRouter 金鑰預算與費用；Moonshot / Kimi API 餘額。Antigravity CLI 讀取明確設定的狀態列快照。缺少的欄位顯示不可用，不混合幣別或預算範圍。
+- **總覽與多帳戶**：總覽可見時自動更新已設定平台。「設定 → 多帳戶」獨立保存連線、憑據和監控狀態，不覆蓋預設連線或 CLI 登入。兩個已設定平台也可在置頂小看板中常駐。
+- **本機統計與 Excel**：讀取 Codex（含封存）與 Claude 本機日誌，先顯示快取，再背景更新。支援日期、專案、模型篩選、每日比較、圖表縮放，並匯出 `.xlsx` 摘要、明細與統計口徑。本機日誌無法確認帳戶歸屬，不代表訂閱額度或實際帳單；可選擇已可存取的 WSL 目錄，不啟動 WSL。
+- **平台管理**：離線品牌圖示、搜尋、收藏及移除應用程式保存的連線；保留 CLI 登入與歷史記錄。
+- **更新與提醒**：失敗退避、離線快取、可選低額度與恢復提醒、消耗預測及靜默時段。預測需要同週期至少 10 分鐘的有效樣本；恢復提醒需先開啟低額度提醒，並以實際更新確認。提醒狀態可跨重啟保留。
+- **桌面顯示**：可拖曳懸浮球、滾輪縮放、貼邊隱藏、系統匣、明暗與系統主題、顏色與透明度、五種語言、自動更新和選用 VPet。主程式 v1.15.0 搭配桌寵 v0.1.4 可同步額度視窗主題。
+
+[平台設定與限制](docs/provider-support-research-2026-09-05.md) · [Kimi / MiniMax / ElevenLabs](docs/codexbar-provider-coverage-2026-09-05.md) · [Gemini / Claude](docs/gemini-quota-2026-09-05.md) · [Antigravity 狀態列](docs/antigravity-statusline-2026-09-07.md)
 
 ## 安裝與設定
 
@@ -109,7 +113,7 @@ Qt 測試需要可用的 Windows 桌面工作階段；產生安裝程式需要 I
 
 ## 版本
 
-主程式 `1.14.2`，選用桌寵擴充套件 `0.1.3`。更新記錄與校驗檔見 [GitHub Releases](https://github.com/zensoku142/TokenMeter/releases)。
+主程式 `1.15.0`，選用桌寵擴充套件 `0.1.4`。更新記錄與校驗檔見 [GitHub Releases](https://github.com/zensoku142/TokenMeter/releases)。
 
 ## 授權與致謝
 

diff --git a/release-notes/pet-v0.1.4.md b/release-notes/pet-v0.1.4.md
@@ -1,0 +1,28 @@
+更新类型：功能优化、Bug 修复
+
+本版本汇总 `pet-v0.1.3` 之后的桌宠变更，让额度气泡和独立额度窗口跟随主程序主题。最低兼容主程序仍为 `1.14.0-beta.1`，平台为 Windows x64，通信协议保持 `1`。
+
+### 优化与修复
+
+- 同步额度气泡和独立额度窗口的明暗底色、正文、辅助文字、边框与按钮配色。
+- 低额度文字和状态提示使用主程序警告色；恢复正常额度后回到当前主题文字与边框色。
+- 旧主程序缺少新增可选主题字段时保留原有外观；仅接受 `#RRGGBB` 颜色，非法颜色保留之前配色，避免异常主题中断宿主。
+- 保持已有贴边、额度展示、动画、提醒及独立更新行为。
+
+### 验证
+
+- 桌宠 .NET 依赖审计及 Release 构建通过，0 个警告、0 个错误。
+- 扩展安装、打包、更新及主题桥接测试包含在主程序发布前回归中；新增宿主检查覆盖明暗底色、低额度警告和非法颜色回退。
+- GitHub Actions 将再次执行桌宠安装更新回归并构建两个独立 ZIP；真实桌面拖拽与所有交互时序未在本次完整验收。
+
+### 安装、兼容与校验
+
+- 在“设置 → 桌宠”检查并升级；主程序 `v1.15.0` 配合本扩展可同步完整明暗主题。旧主程序继续使用兼容字段，不要求强制升级。
+- 附件：`TokenMeter-Pet-v0.1.4-x64.zip`、`TokenMeter-Pet-Host-v0.1.4-x64.zip`、`extension.json`、`SHA256SUMS.txt`。已有完整扩展可复用动画资源并只更新宿主；首次安装使用完整包。
+- 校验文件覆盖两个 ZIP 与清单；SHA256 不等同于独立发布签名。本 Release 不占用主程序 Latest。
+
+### 来源与授权
+
+- 默认角色及动画来自 [LorisYounger/VPet](https://github.com/LorisYounger/VPet)，版权所有：虚拟主播模拟器制作组；核心源码采用 Apache License 2.0，动画和图片采用上游单独授权。
+- 本扩展免费分发并附上游授权声明、来源链接和依赖许可证；不得收费分发动画文件，商业用途需遵守上游额外要求。详见包内 `VPet-README.md`、`VPet-LICENSE.txt` 和 `THIRD_PARTY_NOTICES.md`。
+- 完整差异：[pet-v0.1.3 → pet-v0.1.4](https://github.com/zensoku142/TokenMeter/compare/pet-v0.1.3...pet-v0.1.4)。

diff --git a/pet_host/README.md b/pet_host/README.md
@@ -41,7 +41,7 @@
 
 ## 独立版本清单
 
-`pet_host/extension.json` 是桌宠版本的唯一来源，当前正式版为 `0.1.3`，最低兼容主程序 `1.14.0-beta.1`，建议配合正式主程序 `1.14.2` 使用，协议版本为 `1`。体验版主程序可发现兼容的预发布扩展，正式版仍只选择稳定包：
+`pet_host/extension.json` 是桌宠版本的唯一来源，当前正式版为 `0.1.4`，最低兼容主程序 `1.14.0-beta.1`，建议配合正式主程序 `1.15.0` 使用，以同步额度窗口的明暗主题、文字和警告配色；旧主程序缺少可选主题字段时保留原有外观。协议版本为 `1`。体验版主程序可发现兼容的预发布扩展，正式版仍只选择稳定包：
 
 - `version`：桌宠自己的语义化版本，不与 `APP_VERSION` 同步递增。
 - `protocol`：桌宠与主程序的通信协议版本。改变协议时应同步评估主程序桥接兼容性。
